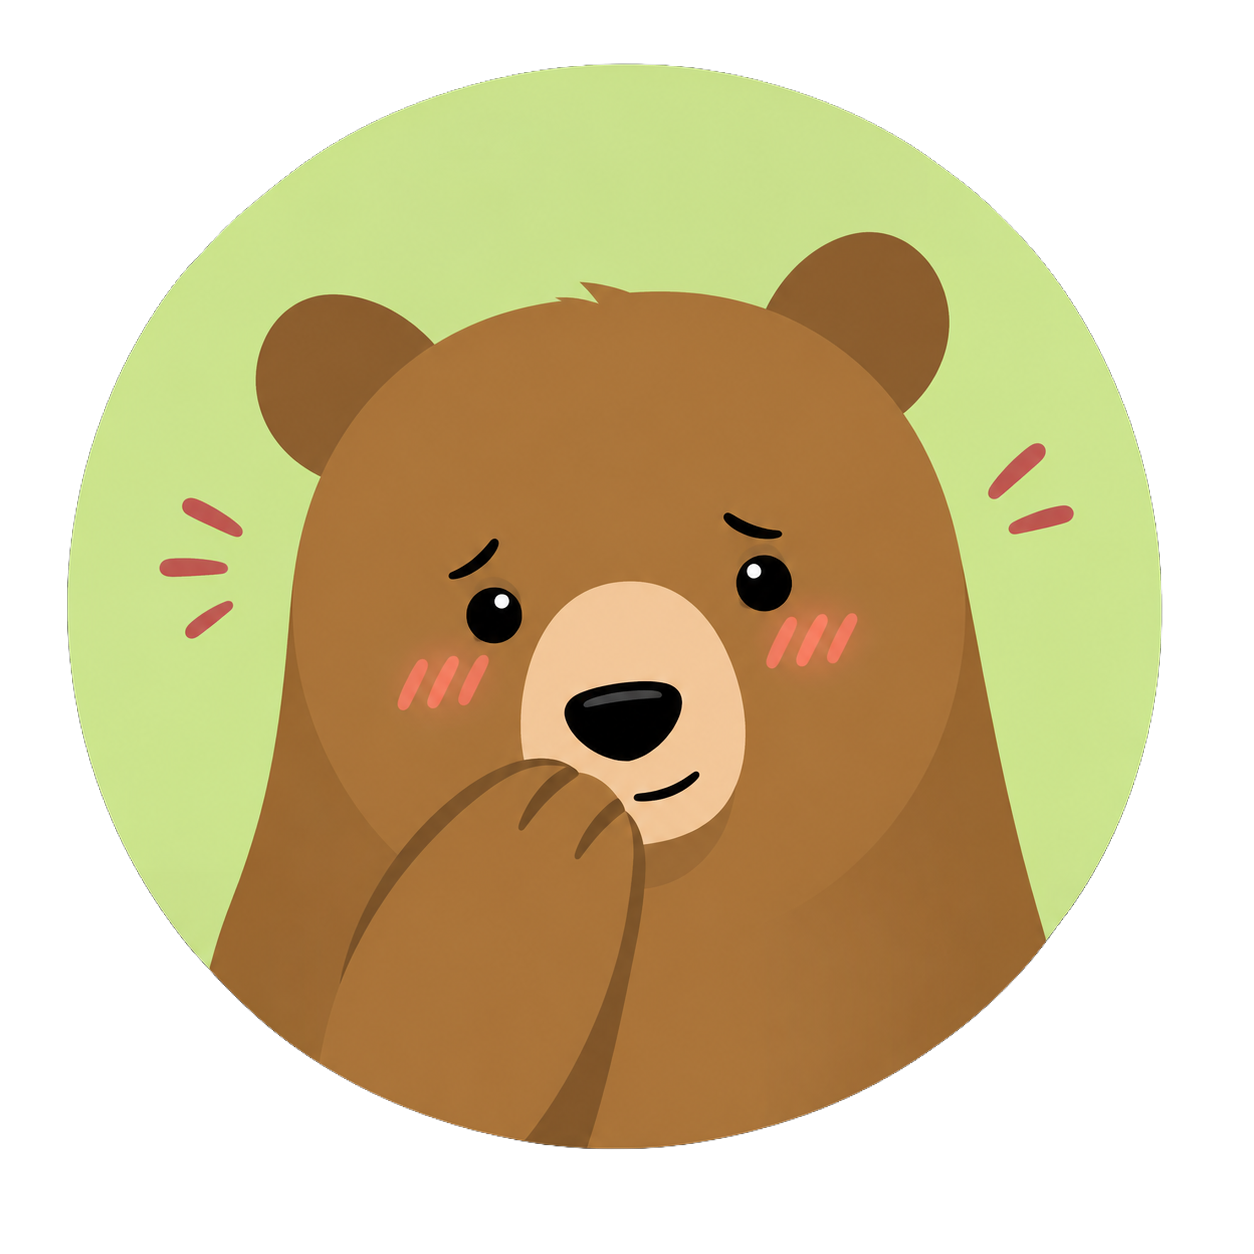
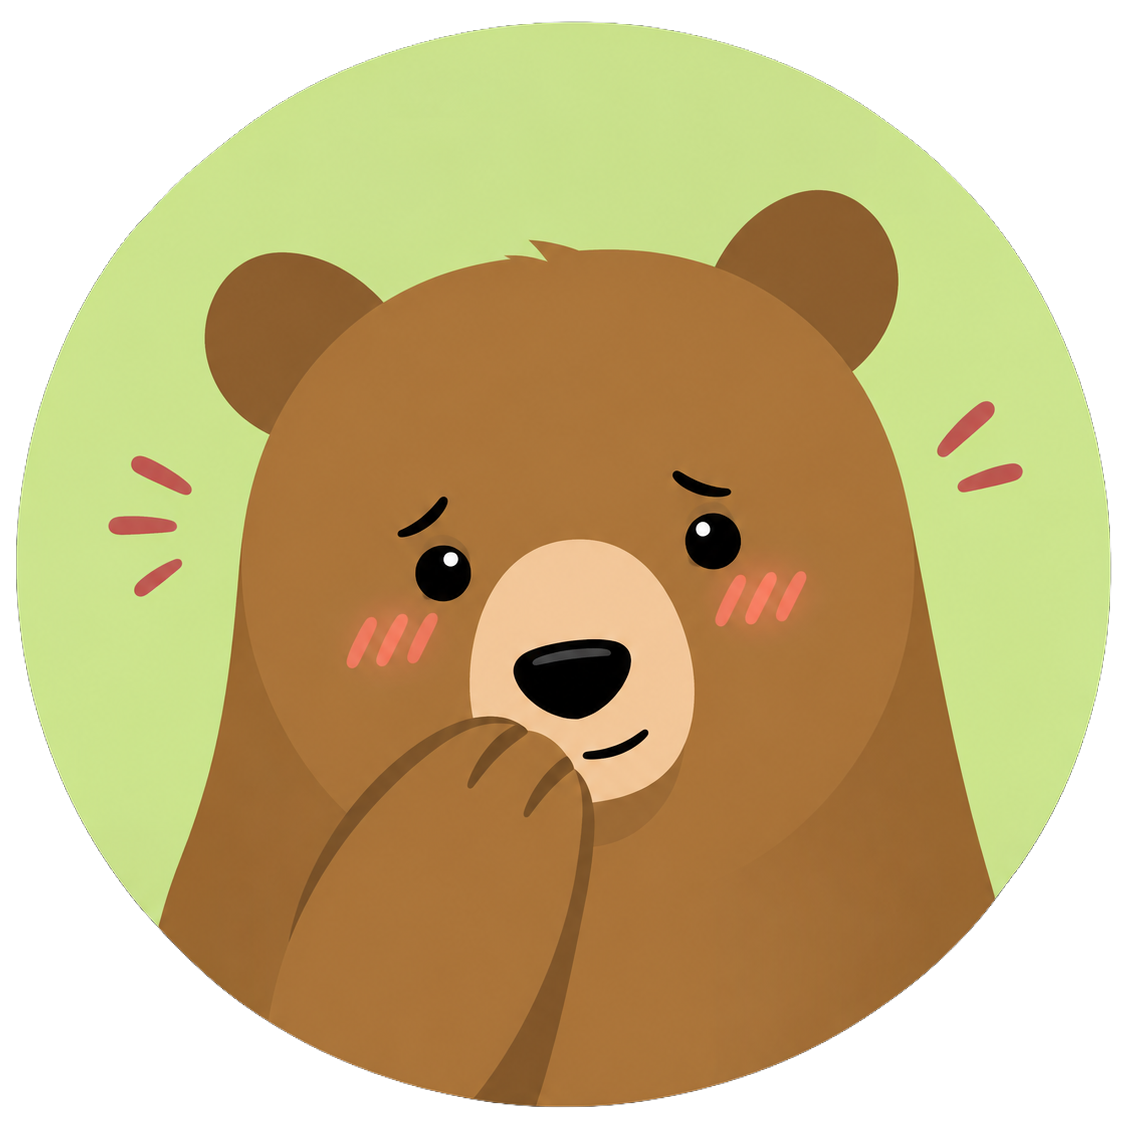
style: update NotFound component styles for consistency and improved layout

Changed region(s): [[0.0, 0.0, 0.9929, 0.9929], [0.2482, 0.7757, 0.2793, 0.8067]]

diff --git a/src/components/notFound/NotFound.tsx b/src/components/notFound/NotFound.tsx
@@ -15,8 +15,9 @@ const NotFound = () => {
       <Typography color="text.secondary">
         La ruta a la que intentas acceder no existe.
       </Typography>
-      <Typography variant="h4">¡¡ Qué Oso !!</Typography>
+
       <img src={shyBear} alt="Oso tímido" className="not-found__image" />
+      <Typography variant="h4">¡¡ Qué Oso !!</Typography>
       <div className="not-found__spacer" />
       <Button
         variant="contained"

diff --git a/src/components/notFound/NotFound.css b/src/components/notFound/NotFound.css
@@ -3,8 +3,8 @@
   flex-direction: column;
   align-items: center;
   justify-content: center;
-  gap: 0.75rem;
-  padding: 4rem 1.5rem;
+  gap: var(--space-2xs);
+  padding: var(--space-lg) var(--space-md);
   text-align: center;
 }
 
